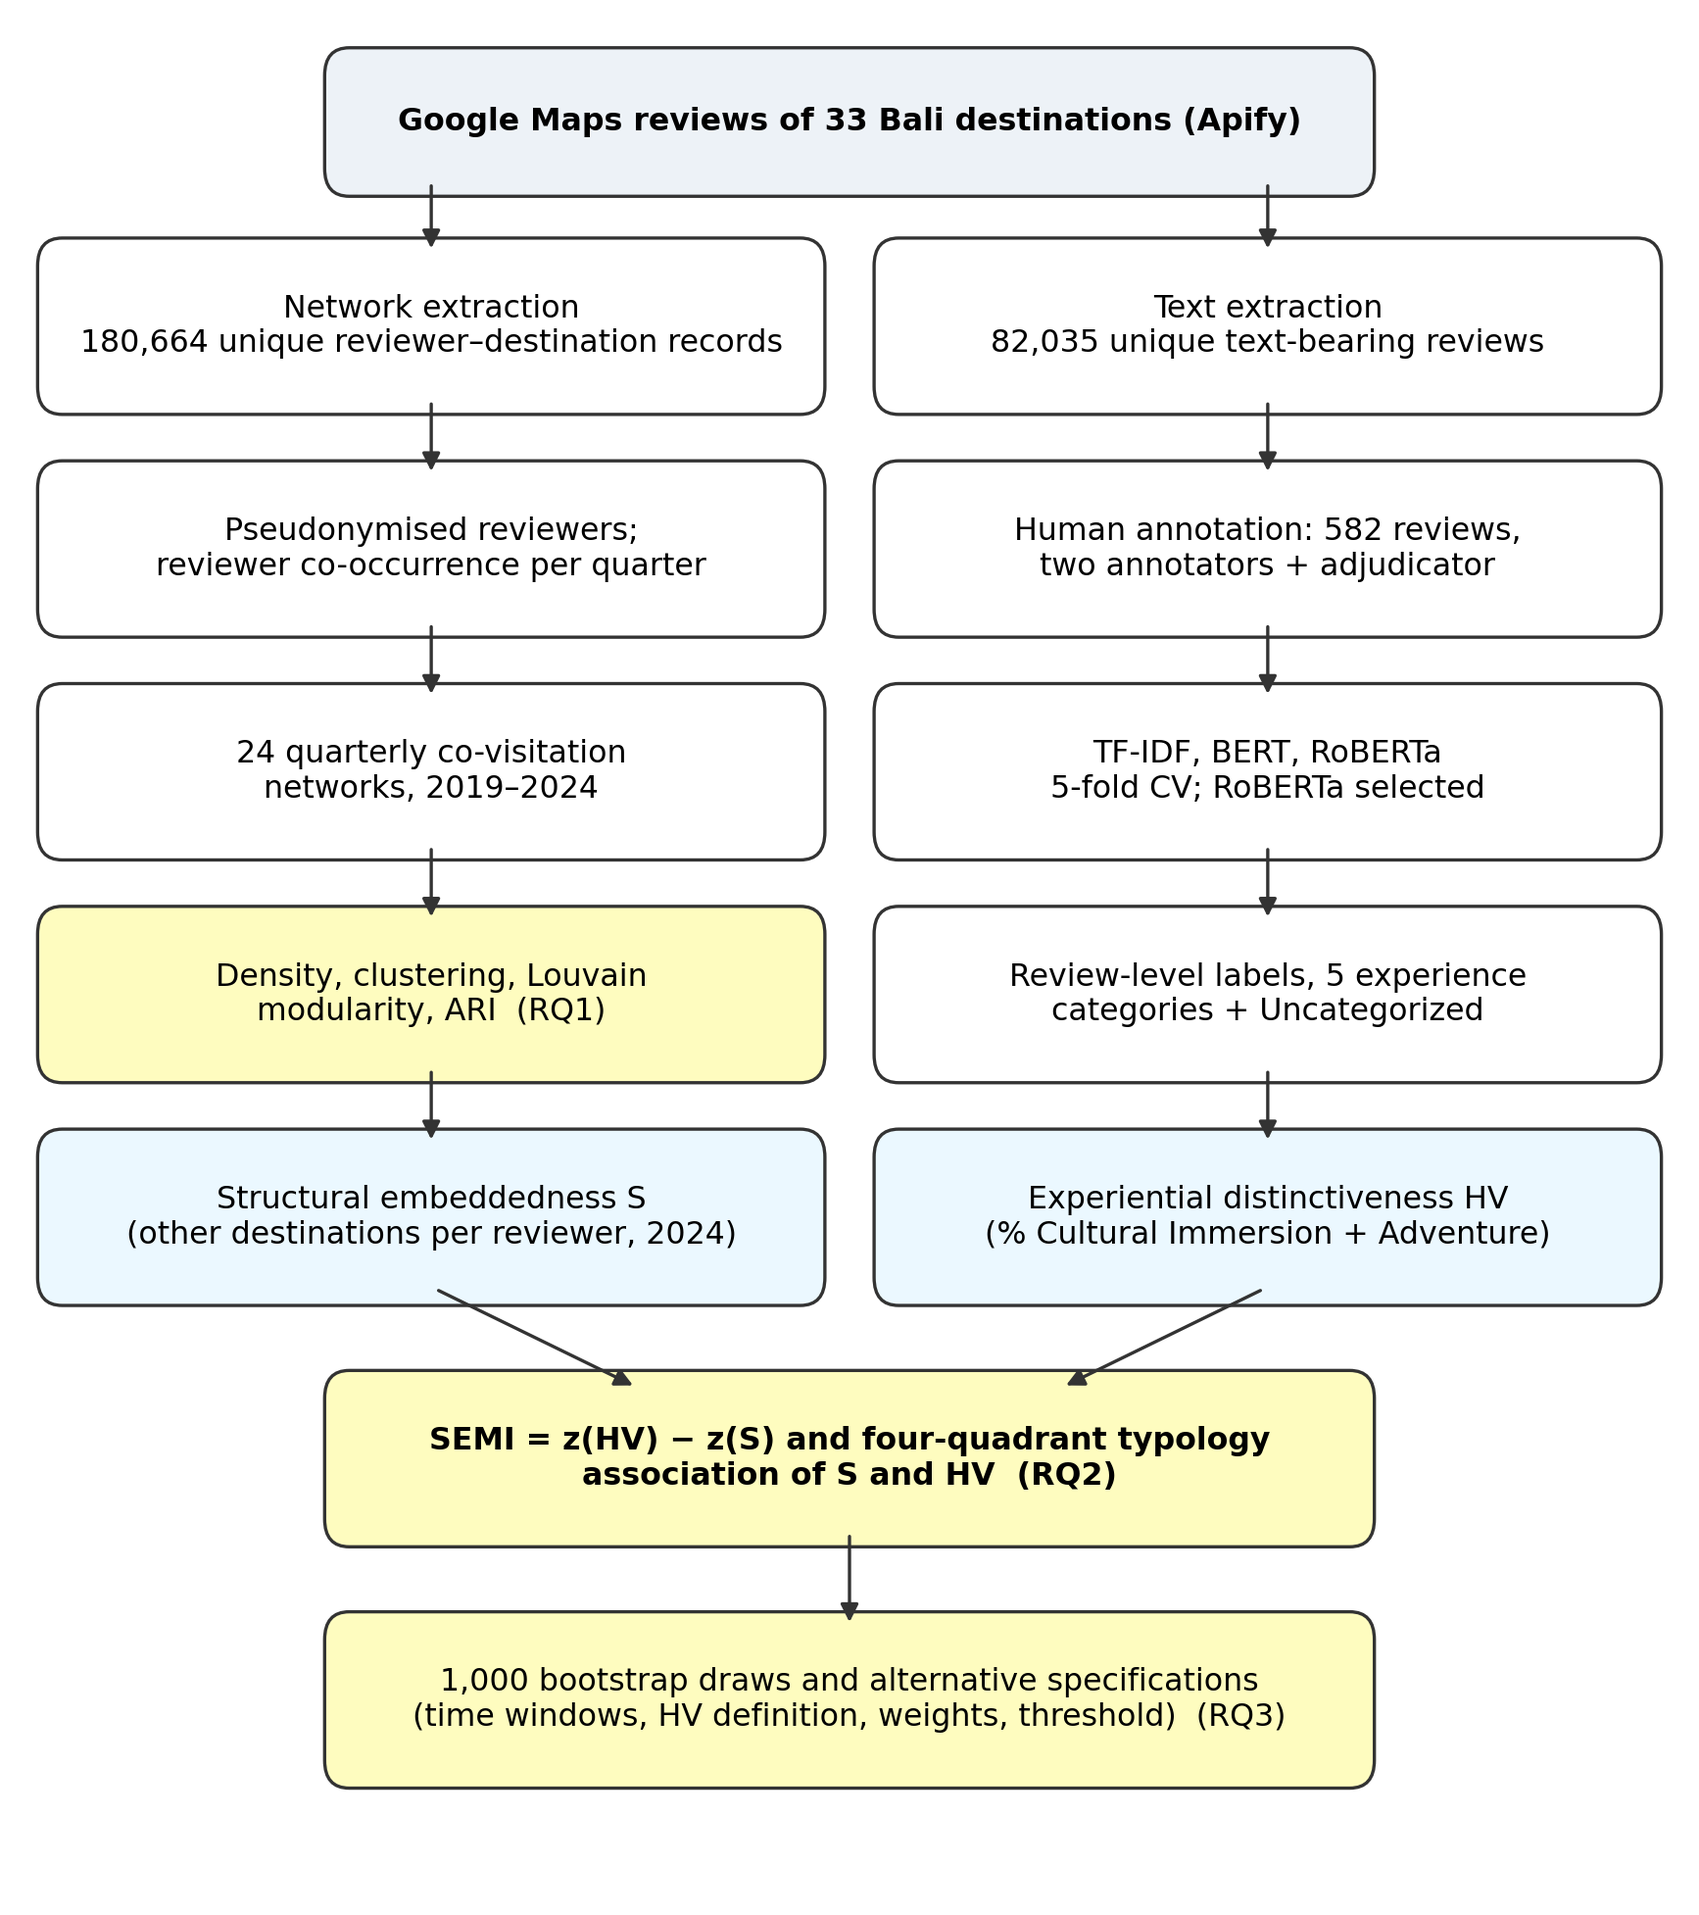
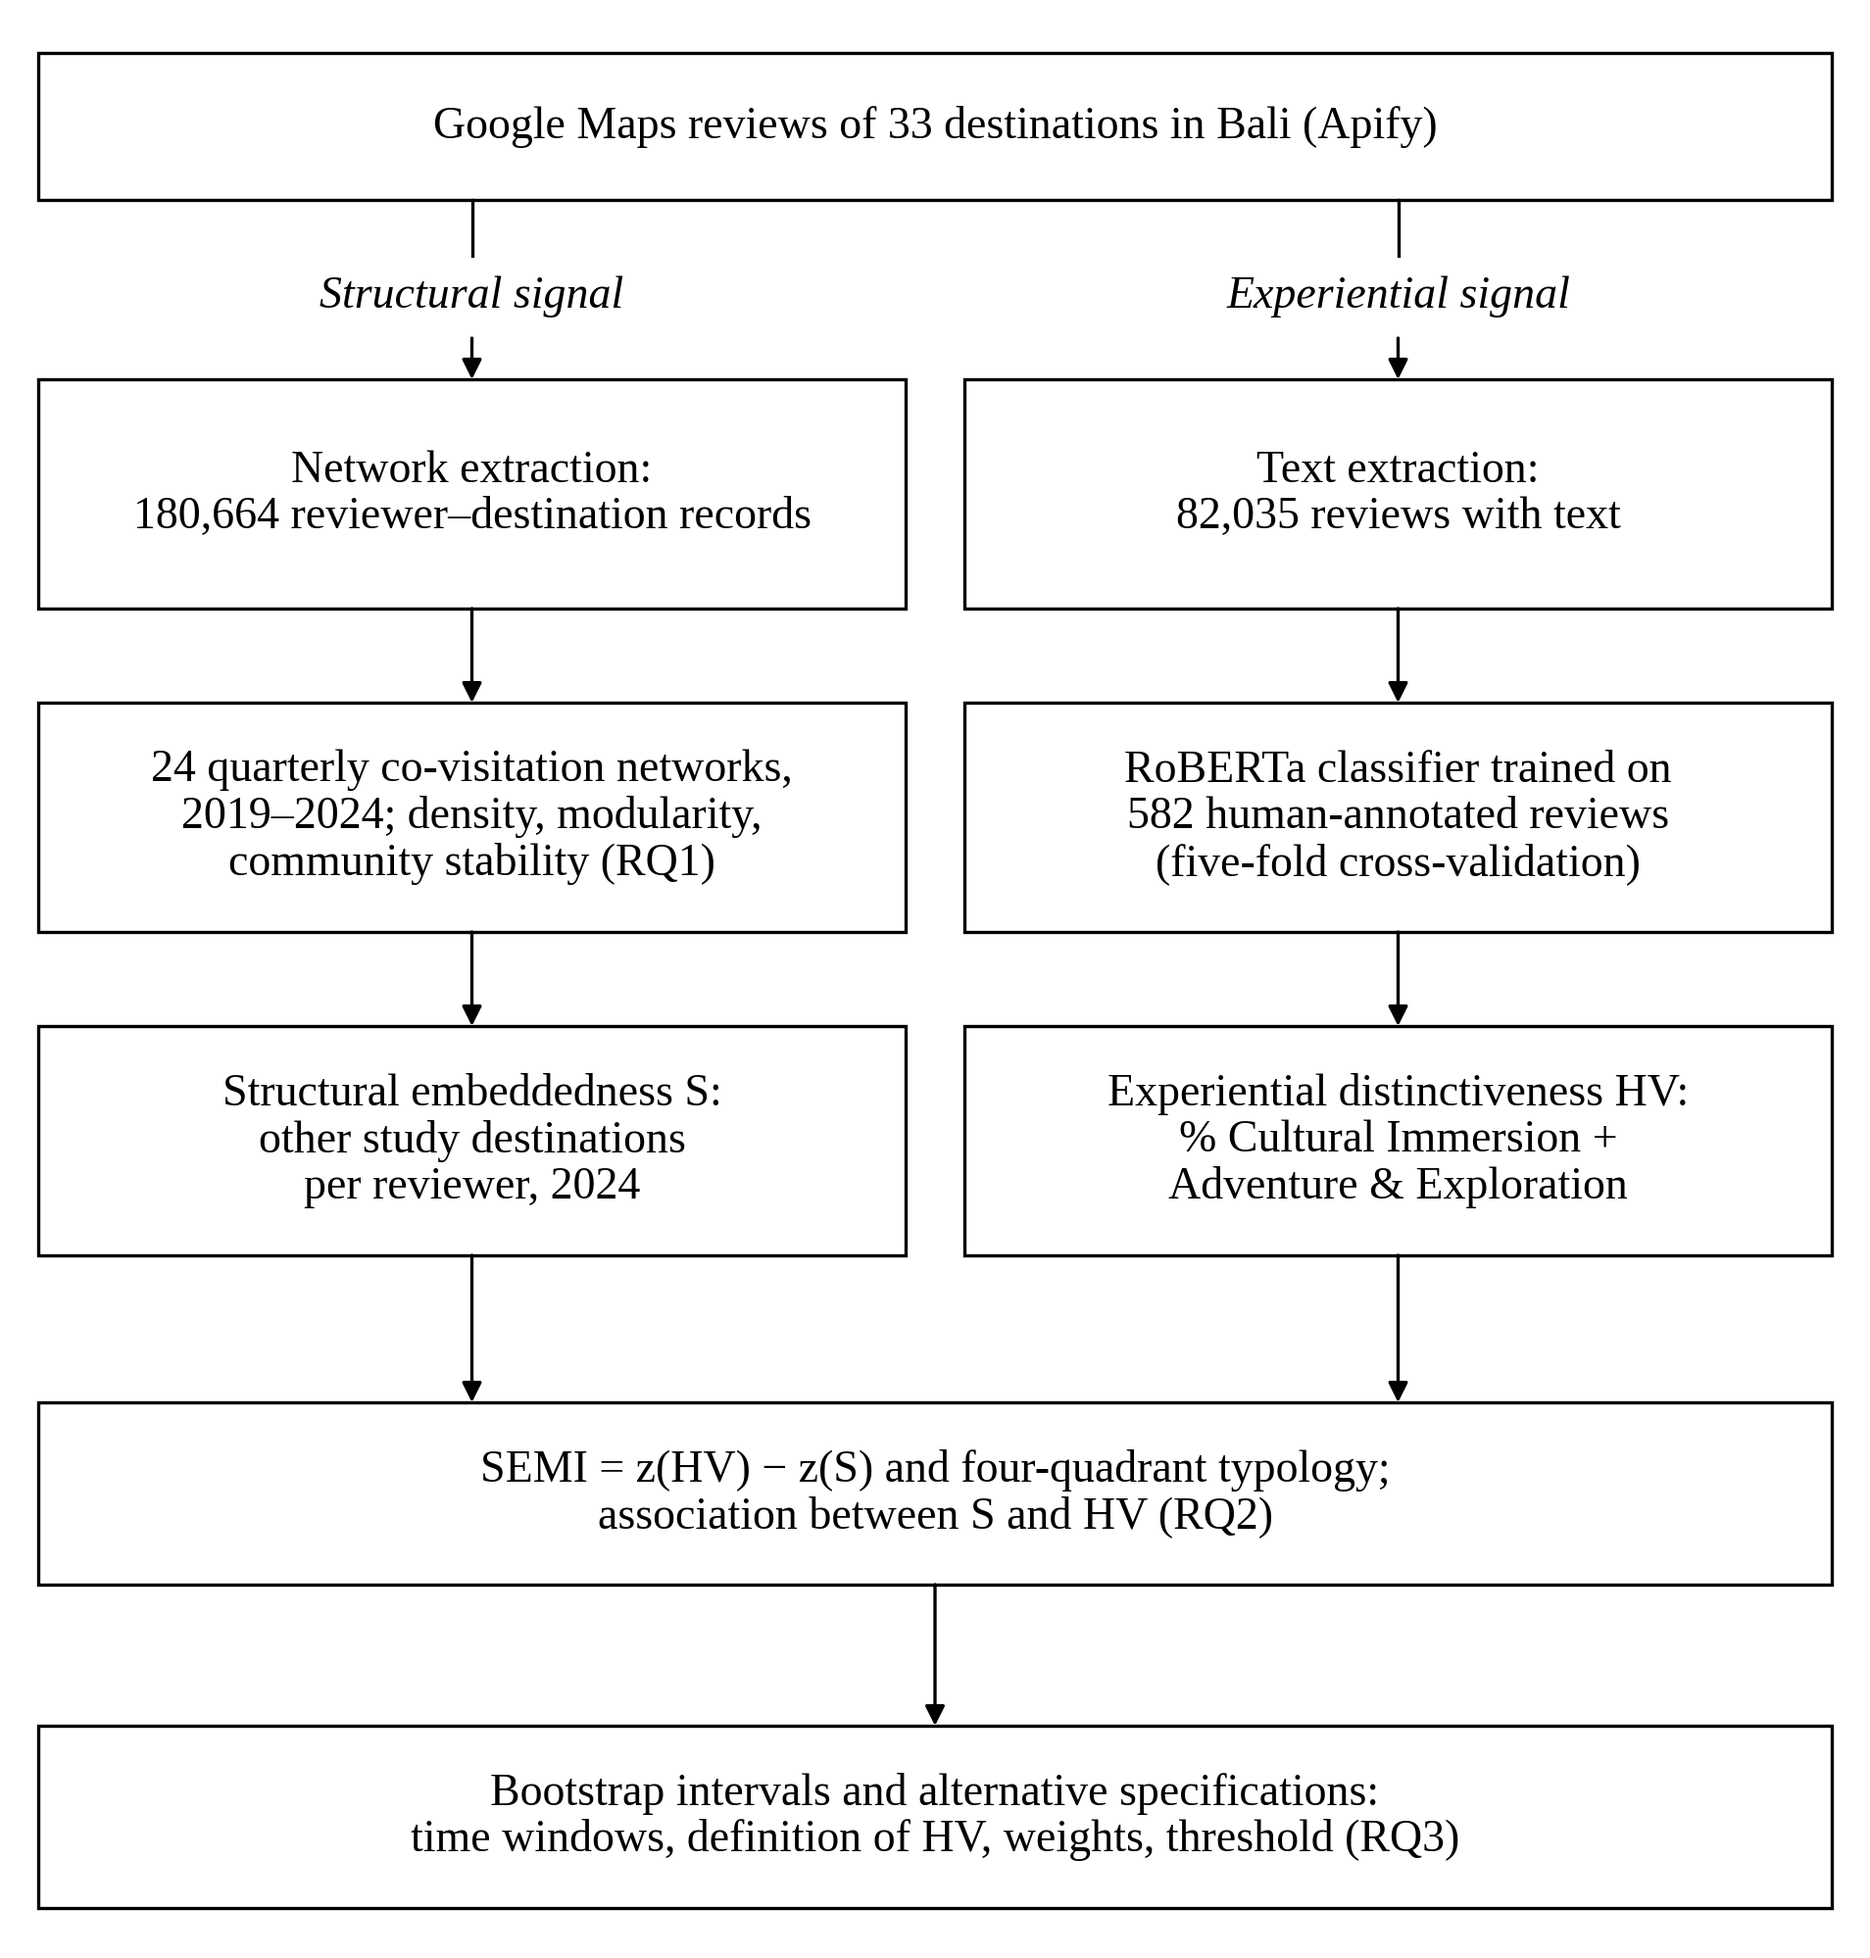
Add files via upload

Changed region(s): [[0.0, 0.0, 0.9965, 0.9678]]

diff --git a/06_figures/make_figures.py b/06_figures/make_figures.py
@@ -6,7 +6,7 @@ Inputs : ../01_data/bali_adm1_geoboundaries.geojson  (geoBoundaries gbOpen IDN A
          ../01_data/destination_coordinates.csv
          ../04_network/edges/edges_<YYYYQn>.csv, ../04_network/node_metrics_quarterly.csv
          ../05_semi/table3_semi.csv
-Outputs: fig1_workflow.png, fig2_edgelist.png, fig3a_2019.png, fig3b_2020.png,
+Outputs: fig1_workflow.png, fig3a_2019.png, fig3b_2020.png,
          figS1_2021.png ... figS4_2024.png, fig4_semi.png  (300 dpi)
 """
 import os, json
@@ -14,7 +14,7 @@ import numpy as np, pandas as pd
 import matplotlib
 matplotlib.use("Agg")
 import matplotlib.pyplot as plt
-from matplotlib.patches import FancyBboxPatch, Polygon
+from matplotlib.patches import Polygon
 
 HERE = os.path.dirname(os.path.abspath(__file__))
 P = lambda *a: os.path.join(HERE, "..", *a)
@@ -22,60 +22,60 @@ plt.rcParams.update({"font.family": "DejaVu Sans", "font.size": 9})
 DPI = 300
 COL = ["#2b6cb0", "#dd6b20", "#2f855a", "#9b2c2c", "#6b46c1"]
 
-# ---------------------------------------------------------------- Fig. 1 workflow
-def box(ax, x, y, w, h, text, fc="#ffffff", bold=False):
-    ax.add_patch(FancyBboxPatch((x - w / 2, y - h / 2), w, h, boxstyle="round,pad=0.01,rounding_size=0.015",
-                                fc=fc, ec="#333333", lw=0.8))
-    ax.text(x, y, text, ha="center", va="center", fontsize=7.6, weight="bold" if bold else "normal", wrap=True)
+# ---------------------------------------------------------------- Fig. 1: drawn at print size
+# The figure is drawn at print size (at most 6.3 in, 16 cm, wide) and must be inserted at
+# their native size (pixels / 300 dpi), so that 11 pt text matches the 11 pt body text.
+SERIF = {"family": "Liberation Serif", "size": 11}
+WIDTH = 6.3
 
-def arrow(ax, x0, y0, x1, y1):
-    ax.annotate("", xy=(x1, y1), xytext=(x0, y0), arrowprops=dict(arrowstyle="-|>", lw=0.8, color="#333333"))
+def rbox(ax, x, y, w, h, text, bold=False):
+    """box centred at (x, y) in inches"""
+    ax.add_patch(plt.Rectangle((x - w / 2, y - h / 2), w, h, fill=False, ec="black", lw=0.8))
+    ax.text(x, y, text, ha="center", va="center", fontdict=SERIF, weight="bold" if bold else "normal",
+            linespacing=1.15)
 
-fig, ax = plt.subplots(figsize=(7.2, 8.2)); ax.set_xlim(0, 1); ax.set_ylim(0, 1); ax.axis("off")
-W, H = 0.46, 0.075
-L, R, C = 0.245, 0.755, 0.5
-box(ax, C, 0.95, 0.62, 0.06, "Google Maps reviews of 33 Bali destinations (Apify)", "#edf2f7", True)
-box(ax, L, 0.84, W, H, "Network extraction\n180,664 unique reviewer–destination records")
-box(ax, R, 0.84, W, H, "Text extraction\n82,035 unique text-bearing reviews")
-box(ax, L, 0.72, W, H, "Pseudonymised reviewers;\nreviewer co-occurrence per quarter")
-box(ax, R, 0.72, W, H, "Human annotation: 582 reviews,\ntwo annotators + adjudicator")
-box(ax, L, 0.60, W, H, "24 quarterly co-visitation\nnetworks, 2019–2024")
-box(ax, R, 0.60, W, H, "TF-IDF, BERT, RoBERTa\n5-fold CV; RoBERTa selected")
-box(ax, L, 0.48, W, H, "Density, clustering, Louvain\nmodularity, ARI  (RQ1)", "#fefcbf")
-box(ax, R, 0.48, W, H, "Review-level labels, 5 experience\ncategories + Uncategorized")
-box(ax, L, 0.36, W, H, "Structural embeddedness S\n(other destinations per reviewer, 2024)", "#ebf8ff")
-box(ax, R, 0.36, W, H, "Experiential distinctiveness HV\n(% Cultural Immersion + Adventure)", "#ebf8ff")
-box(ax, C, 0.23, 0.62, H, "SEMI = z(HV) − z(S) and four-quadrant typology\nassociation of S and HV  (RQ2)", "#fefcbf", True)
-box(ax, C, 0.10, 0.62, H, "1,000 bootstrap draws and alternative specifications\n(time windows, HV definition, weights, threshold)  (RQ3)", "#fefcbf")
-for x in (L, R):
-    arrow(ax, x, 0.95 - 0.03 if False else 0.92, x, 0.84 + H / 2)
-    for y0, y1 in ((0.84, 0.72), (0.72, 0.60), (0.60, 0.48), (0.48, 0.36)):
-        arrow(ax, x, y0 - H / 2, x, y1 + H / 2)
-    arrow(ax, x, 0.36 - H / 2, C + (x - C) * 0.5, 0.23 + H / 2)
-arrow(ax, C, 0.23 - H / 2, C, 0.10 + H / 2)
-fig.savefig(os.path.join(HERE, "fig1_workflow.png"), dpi=DPI, bbox_inches="tight", facecolor="white"); plt.close(fig)
+def arr(ax, x0, y0, x1, y1):
+    ax.annotate("", xy=(x1, y1), xytext=(x0, y0),
+                arrowprops=dict(arrowstyle="-|>", lw=0.8, color="black", mutation_scale=10, shrinkA=0, shrinkB=0))
 
-# ---------------------------------------------------------------- Fig. 2 edge-list construction
-fig, axs = plt.subplots(1, 3, figsize=(7.4, 2.6), gridspec_kw={"width_ratios": [1.25, 0.8, 1]})
-for a in axs: a.axis("off")
-rows = [("Reviewer 1", "A, B, C"), ("Reviewer 2", "B, D"), ("Reviewer 3", "A")]
-axs[0].set_title("(1) Reviews posted in one quarter", fontsize=8.5, loc="left")
-axs[0].table(cellText=rows, colLabels=["Pseudonymised reviewer", "Destinations reviewed"], loc="center",
-             cellLoc="center", colWidths=[0.55, 0.45])
-t0 = axs[0].tables[0]; t0.auto_set_font_size(False); t0.set_fontsize(7.5); t0.scale(1, 1.6)
-axs[1].set_title("(2) Destination pairs", fontsize=8.5, loc="left")
-axs[1].table(cellText=[("A", "B"), ("A", "C"), ("B", "C"), ("B", "D")], colLabels=["Source", "Target"],
-             loc="center", cellLoc="center")
-t1 = axs[1].tables[0]; t1.auto_set_font_size(False); t1.set_fontsize(7.5); t1.scale(1, 1.6)
-axs[2].set_title("(3) Unweighted co-visitation network", fontsize=8.5, loc="left")
-pos = {"A": (0.2, 0.75), "B": (0.55, 0.45), "C": (0.2, 0.2), "D": (0.9, 0.6)}
-for u, v in [("A", "B"), ("A", "C"), ("B", "C"), ("B", "D")]:
-    axs[2].plot(*zip(pos[u], pos[v]), color="#666666", lw=1.2, zorder=1)
-for n, (x, y) in pos.items():
-    axs[2].scatter(x, y, s=420, color="#2b6cb0", zorder=2); axs[2].text(x, y, n, color="white", ha="center", va="center", weight="bold")
-axs[2].set_xlim(0, 1.05); axs[2].set_ylim(0, 1)
-axs[2].text(0.02, -0.08, "Reviewer 3 reviewed one study destination and adds no edge.", fontsize=7, transform=axs[2].transAxes)
-fig.savefig(os.path.join(HERE, "fig2_edgelist.png"), dpi=DPI, bbox_inches="tight", facecolor="white"); plt.close(fig)
+def canvas(h):
+    fig = plt.figure(figsize=(WIDTH, h))
+    ax = fig.add_axes([0, 0, 1, 1]); ax.set_xlim(0, WIDTH); ax.set_ylim(0, h); ax.axis("off")
+    return fig, ax
+
+# Fig. 1 workflow
+H1 = 6.6
+fig, ax = canvas(H1)
+cw, gap = 2.95, 0.2
+xl, xr, xc = 0.1 + cw / 2, WIDTH - 0.1 - cw / 2, WIDTH / 2
+bh = 0.78
+rbox(ax, xc, 6.2, WIDTH - 0.2, 0.5, "Google Maps reviews of 33 destinations in Bali (Apify)")
+ax.text(xl, 5.62, "Structural signal", ha="center", va="center", fontdict=SERIF, style="italic")
+ax.text(xr, 5.62, "Experiential signal", ha="center", va="center", fontdict=SERIF, style="italic")
+rows = [4.95, 3.85, 2.75]
+left = ["Network extraction:\n180,664 reviewer–destination records",
+        "24 quarterly co-visitation networks,\n2019–2024; density, modularity,\ncommunity stability (RQ1)",
+        "Structural embeddedness S:\nother study destinations\nper reviewer, 2024"]
+right = ["Text extraction:\n82,035 reviews with text",
+         "RoBERTa classifier trained on\n582 human-annotated reviews\n(five-fold cross-validation)",
+         "Experiential distinctiveness HV:\n% Cultural Immersion +\nAdventure & Exploration"]
+for y, tl, tr in zip(rows, left, right):
+    rbox(ax, xl, y, cw, bh, tl); rbox(ax, xr, y, cw, bh, tr)
+for x in (xl, xr):
+    ax.plot([x, x], [6.2 - 0.25, 5.76], color="black", lw=0.8)
+    arr(ax, x, 5.48, x, rows[0] + bh / 2)
+    for y0, y1 in zip(rows, rows[1:]):
+        arr(ax, x, y0 - bh / 2, x, y1 + bh / 2)
+yS, yB = 1.55, 0.45
+rbox(ax, xc, yS, WIDTH - 0.2, 0.62, "SEMI = z(HV) − z(S) and four-quadrant typology;\nassociation between S and HV (RQ2)")
+rbox(ax, xc, yB, WIDTH - 0.2, 0.62, "Bootstrap intervals and alternative specifications:\ntime windows, definition of HV, weights, threshold (RQ3)")
+for x in (xl, xr):
+    arr(ax, x, rows[-1] - bh / 2, x, yS + 0.31)
+arr(ax, xc, yS - 0.31, xc, yB + 0.31)
+fig.savefig(os.path.join(HERE, "fig1_workflow.png"), dpi=DPI, facecolor="white", bbox_inches="tight", pad_inches=0.03); plt.close(fig)
+
+# Fig. 2 (edge-list construction from a Google Maps screenshot) is a manually prepared
+# illustration and is not generated by this script.
 
 # ---------------------------------------------------------------- Fig. 3 and S1-S4 network maps
 geo = json.load(open(P("01_data", "bali_adm1_geoboundaries.geojson")))
